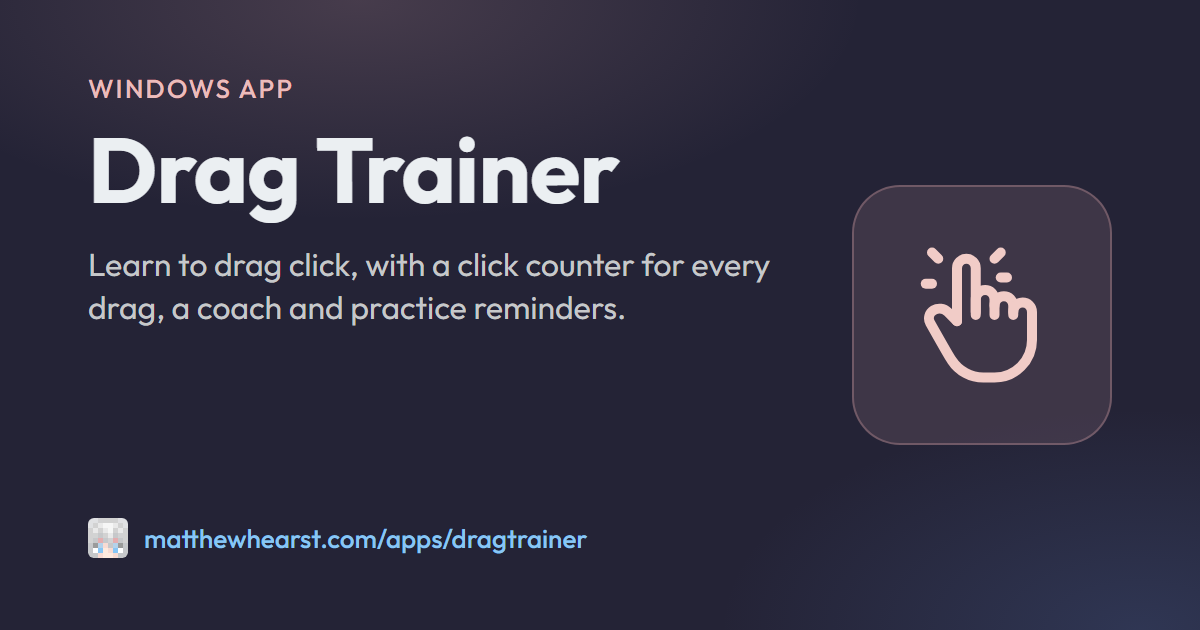
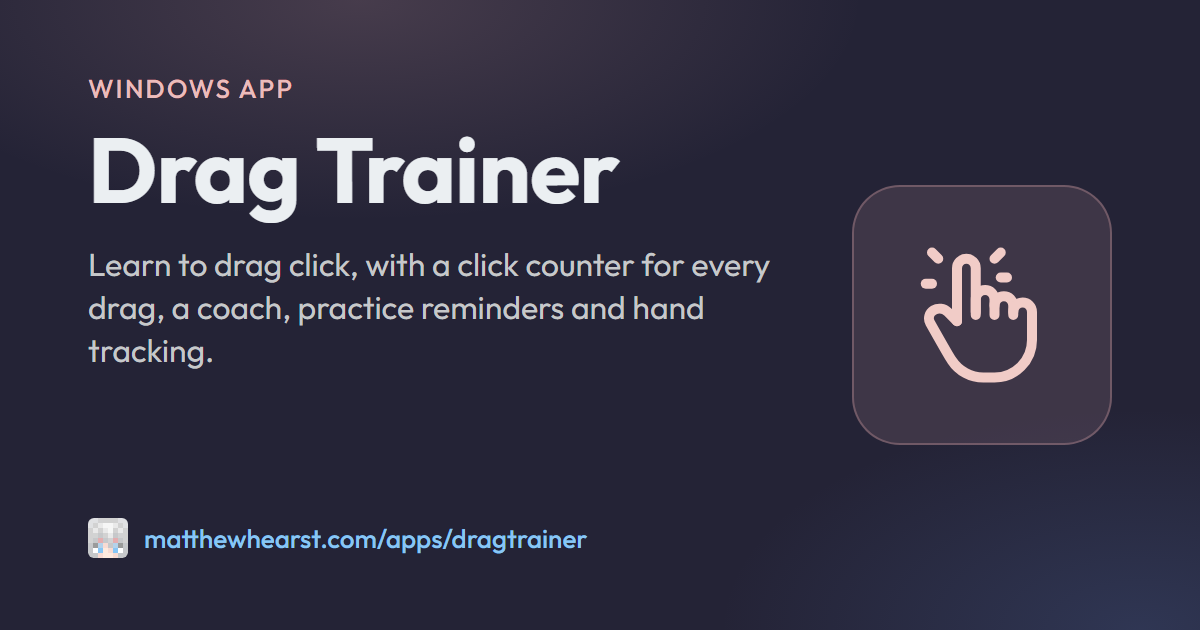
Point the Drag Trainer download buttons straight at each version's exe, add the which-version advice, replay details and hand tracking setup from the v1.1.0 release

Changed region(s): [[0.2158, 0.4524, 0.5858, 0.5127], [0.0617, 0.5429, 0.185, 0.6032]]

diff --git a/src/handtracking.tsx b/src/handtracking.tsx
@@ -6,7 +6,29 @@ import KofiButton from './KofiButton';
 import Subpage from './Subpage';
 import classes from './Subpage.module.css';
 
-const download = 'https://github.com/urmamge/drag-trainer/releases/tag/v1.1.0';
+const download = 'https://github.com/urmamge/drag-trainer/releases/download/v1.1.0/Drag-Trainer.exe';
+
+/** Condensed from the drag-trainer README's "Hand tracking setup". */
+const setup = [
+  <>
+    <b>Connect your phone as a camera.</b> On Windows 11 with Android, link your phone in Settings → Bluetooth &
+    devices → Mobile devices. On any phone, a free webcam app like Iriun Webcam, DroidCam or Camo works. Turn on 60fps if
+    it has the option.
+  </>,
+  <>
+    <b>Place it</b> on its side, level with the top of your mouse and 20–30cm away, filming your clicking finger
+    side-on. Keep your whole hand in shot, use good lighting, and prop it up so it can’t move.
+  </>,
+  <>
+    In Drag Trainer, click <b>Hand tracking</b>, pick your phone and press <b>Start camera</b>.
+  </>,
+  <>
+    <b>Calibrate</b> with <b>Mark back</b> and <b>Mark front</b>, as explained above.
+  </>,
+  <>
+    Optionally tick <b>Record my drags</b>, then drag in Drag practice mode or a practice session.
+  </>,
+];
 
 /** Each step of the hand tracking, in the order it happens. */
 const steps: { title: string; body: ReactNode[] }[] = [
@@ -28,8 +50,9 @@ const steps: { title: string; body: ReactNode[] }[] = [
     title: 'You show it where the button is',
     body: [
       <>
-        The camera can see your hand, but it has no idea where your mouse button is. So you calibrate: hold your
-        fingertip at the back of the button for a 3 second countdown, then do the same at the front edge.
+        The camera can see your hand, but it has no idea where your mouse button is. So you calibrate: press{' '}
+        <b>Mark back</b> and hold your fingertip on the back of the button during the 3 second countdown, then press{' '}
+        <b>Mark front</b> and do the same on the front edge.
       </>,
       <>
         It takes your fingertip’s position over the last half second of each countdown, so a tiny wobble doesn’t
@@ -97,9 +120,15 @@ const steps: { title: string; body: ReactNode[] }[] = [
     title: 'It can replay your drags (if you want)',
     body: [
       <>
-        If you turn on recording, it keeps a few seconds of small video frames in memory. When a drag ranks among your 3
-        best or 3 worst of the session, those frames are saved on your PC along with what made that drag good or bad.
-        You can then watch it back in slow motion or frame by frame, with every click marked.
+        If you tick <b>Record my drags</b>, it keeps the last few seconds of small video frames in memory. When a drag
+        ranks among your 3 best or 3 worst of the session, those frames are saved on your PC along with what made that
+        drag good or bad. Open <b>Replays</b> to watch them back in slow motion or frame by frame, with every click
+        marked.
+      </>,
+      <>
+        Each marking (hand, finger, button line, target spot and click flash) can be switched on or off, or hide them all
+        to see just your hand. Clips from your last 10 sessions are kept, and you can delete them all from the Replays
+        screen.
       </>,
     ],
   },
@@ -113,7 +142,7 @@ const limits = [
 
 const privacy = [
   'Everything happens on your PC. The hand tracker is built into the app, so the video is never uploaded anywhere',
-  'Nothing is recorded unless you turn on recording, and then it only keeps short clips of your 3 best and 3 worst drags on your PC',
+  'Nothing is recorded unless you tick Record my drags, and then it only keeps short clips of your 3 best and 3 worst drags on your PC',
   'The camera is only on while you’re using hand tracking, and the microphone is never used',
 ];
 
@@ -161,6 +190,22 @@ mount(
 
       <div className={classes.panel}>
         <Title order={2} fz="h4" mb="md">
+          Setting it up
+        </Title>
+        <Stack gap="md">
+          {setup.map((step, i) => (
+            <div key={i} className={classes.step}>
+              <span className={classes.stepNumber}>{i + 1}</span>
+              <Text c="dark.1" size="sm" pt={4} style={{ minWidth: 0 }}>
+                {step}
+              </Text>
+            </div>
+          ))}
+        </Stack>
+      </div>
+
+      <div className={classes.panel}>
+        <Title order={2} fz="h4" mb="md">
           What it can’t see
         </Title>
         <Points lines={limits} />
@@ -174,7 +219,7 @@ mount(
       </div>
 
       <Group gap="sm">
-        <Button component="a" href={download} target="_blank" rel="noopener noreferrer" color="blush" autoContrast size="md" leftSection={<IconDownload size={18} />}>
+        <Button component="a" href={download} color="blush" autoContrast size="md" leftSection={<IconDownload size={18} />}>
           Download v1.1
         </Button>
       </Group>

diff --git a/src/dragtrainer.tsx b/src/dragtrainer.tsx
@@ -8,9 +8,9 @@ import appClasses from './App.module.css';
 import classes from './Subpage.module.css';
 
 const repo = 'https://github.com/urmamge/drag-trainer';
-/** Each version's release, where its Drag-Trainer.exe is attached. */
-const downloadV1 = `${repo}/releases/tag/v1.0.0`;
-const downloadV11 = `${repo}/releases/tag/v1.1.0`;
+/** Each version's Drag-Trainer.exe, straight from its GitHub release. */
+const downloadV1 = `${repo}/releases/download/v1.0.0/Drag-Trainer.exe`;
+const downloadV11 = `${repo}/releases/download/v1.1.0/Drag-Trainer.exe`;
 
 const featuresV1 = [
   'Timed CPS tests from 0.5 to 60 seconds, left or right click, with history and a best score for each length',
@@ -23,14 +23,14 @@ const featuresV1 = [
 const featuresV11 = [
   'Hand tracking: point your phone or webcam at your mouse hand, and after every drag the coach tells you your finger angle, where the drag started, how far and fast it went, and whether your fingertip lifted',
   'Learns what works for you: after 8 tracked drags it compares your best and worst drags, sums up what your best ones do differently, and marks where to start with a green circle',
-  'Drag replays: optionally record your drags and it keeps your 3 best and 3 worst from each session, says what made each one good or bad, and plays them back in slow motion or frame by frame',
+  'Drag replays: turn on recording and it keeps your 3 best and 3 worst drags from each session, says what made each one good or bad, and plays them back in slow motion or frame by frame with every click marked. Each marking can be switched off to see just your hand',
   'A phone camera setup guide inside the app',
-  'The video is analysed live on your PC and never sent anywhere. It only uses the camera when you turn it on, and never the microphone',
+  'The video is analysed live on your PC and never sent anywhere. It’s only saved if you turn on recording, and then only as short clips on your PC'
 ];
 
 const install = [
   <>
-    Download <b>Drag-Trainer.exe</b> from one of the buttons above. Pick v1.1 if you want hand tracking.
+    Download <b>Drag-Trainer.exe</b> for the version you want from the buttons above.
   </>,
   <>Double-click it. There’s nothing to install; the exe is the app, so keep it anywhere, like your Desktop.</>,
   <>
@@ -44,9 +44,9 @@ const safety = [
   'No admin rights, no system settings changed and no network requests of its own: no telemetry, accounts or ads',
   'Your scores and practice history stay on your PC, in %APPDATA%\\Drag Trainer',
   'It only counts clicks on its own grey pad, not anywhere else',
-  'v1.1 only uses your camera when you turn on hand tracking, and never your microphone. The video stays on your PC',
+  'v1.0 never uses your camera. v1.1 only uses it when you turn on hand tracking, and neither version uses your microphone',
   'Every release is built by GitHub Actions from the tagged source, with a SHA256 checksum and a build attestation you can verify',
-  'Closing the window quits it completely. To uninstall, delete Drag-Trainer.exe',
+  'Closing the window quits it completely. To uninstall, delete Drag-Trainer.exe, and delete the %APPDATA%\\Drag Trainer folder to remove your scores and replays too',
 ];
 
 function Steps({ steps }: { steps: ReactNode[] }) {
@@ -81,10 +81,10 @@ mount(
       />
 
       <Group gap="sm">
-        <Button component="a" href={downloadV11} target="_blank" rel="noopener noreferrer" color="blush" autoContrast size="md" leftSection={<IconDownload size={18} />}>
+        <Button component="a" href={downloadV11} color="blush" autoContrast size="md" leftSection={<IconDownload size={18} />}>
           Download v1.1
         </Button>
-        <Button component="a" href={downloadV1} target="_blank" rel="noopener noreferrer" color="blush" variant="outline" size="md" leftSection={<IconDownload size={18} />}>
+        <Button component="a" href={downloadV1} color="blush" variant="outline" size="md" leftSection={<IconDownload size={18} />}>
           Download v1.0
         </Button>
         <Button component="a" href={repo} target="_blank" rel="noopener noreferrer" color="tie.5" size="md" leftSection={<IconBrandGithub size={18} />}>
@@ -97,6 +97,12 @@ mount(
           Free & open source
         </Badge>
       </Group>
+
+      <Text c="dark.2" size="sm" mt={-32} maw={640}>
+        <b>Not sure which?</b> Get v1.1. Hand tracking stays off until you switch it on, so until then it works just
+        like v1.0. Pick v1.0 if you don’t want camera features at all or want a slightly smaller download (~110MB vs
+        ~119MB). Both share the same saved scores, so you can switch any time.
+      </Text>
 
       <div className={classes.panel}>
         <Title order={2} fz="h4" mb="md">

diff --git a/apps/dragtrainer/index.html b/apps/dragtrainer/index.html
@@ -4,7 +4,7 @@
     <meta charset="UTF-8" />
     <link rel="icon" type="image/png" href="/favicon.png" />
     <meta name="viewport" content="width=device-width, initial-scale=1.0" />
-    <meta name="description" content="Drag Trainer: a free Windows app for learning to drag click, with a click counter, coach and practice reminders" />
+    <meta name="description" content="Drag Trainer: a free Windows app for learning to drag click, with a click counter, coach, practice reminders and hand tracking" />
     <link rel="preconnect" href="https://fonts.googleapis.com" />
     <link rel="preconnect" href="https://fonts.gstatic.com" crossorigin />
     <link

diff --git a/src/links.ts b/src/links.ts
@@ -80,7 +80,7 @@ const docToAudio: Destination = {
 
 const dragTrainer: Destination = {
   title: 'Drag Trainer',
-  description: 'Windows app for learning to drag click, with a coach and practice reminders.',
+  description: 'Windows app for learning to drag click, with a coach, practice reminders and hand tracking.',
   icon: IconHandClick,
   href: '/apps/dragtrainer/',
   host: 'matthewhearst.com/apps/dragtrainer',

diff --git a/scripts/og-pages.ts b/scripts/og-pages.ts
@@ -78,7 +78,7 @@ export const ogPages: OgPage[] = [
     html: 'apps/dragtrainer/index.html',
     eyebrow: 'windows app',
     title: 'Drag Trainer',
-    text: 'Learn to drag click, with a click counter for every drag, a coach and practice reminders.',
+    text: 'Learn to drag click, with a click counter for every drag, a coach, practice reminders and hand tracking.',
     icon: 'hand-click',
   },
   {
